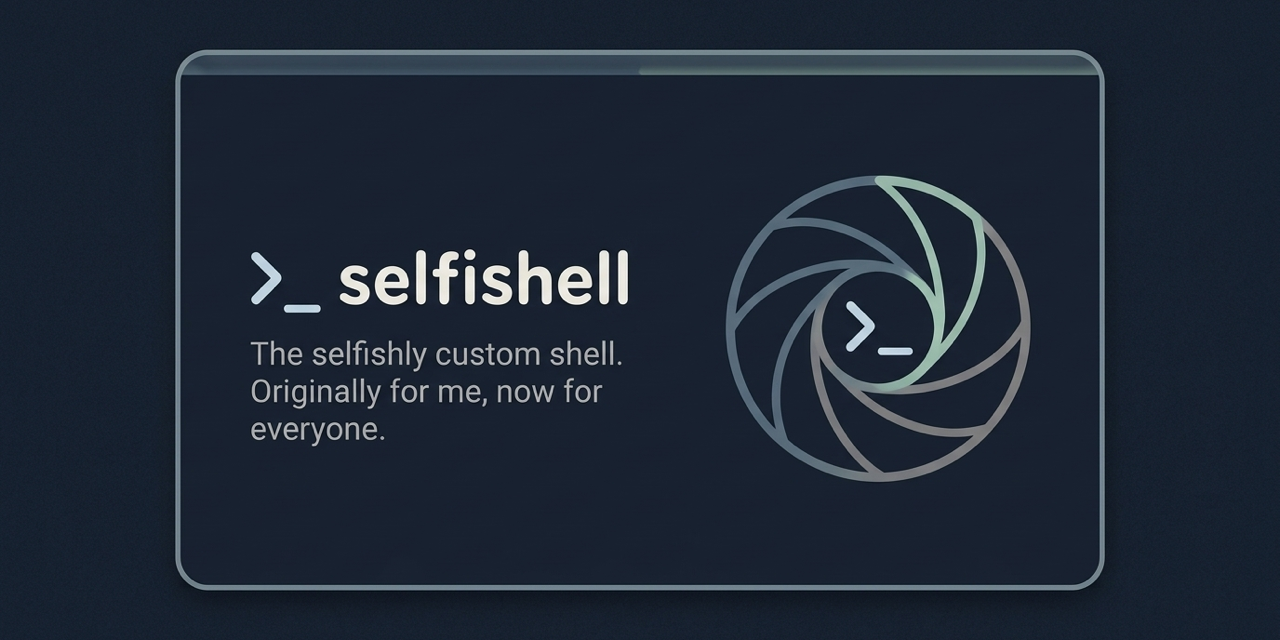
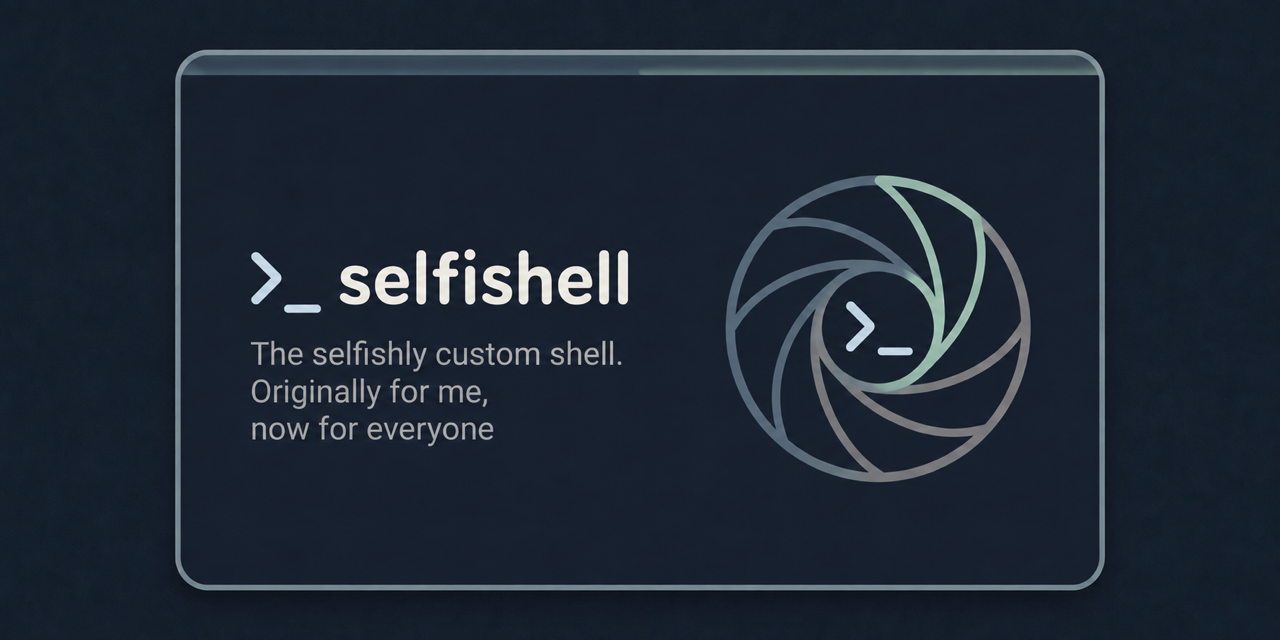
Show updated social preview at the top of README (#210)
* docs: show social preview in README header

* docs: rebalance social preview tagline

diff --git a/README.md b/README.md
@@ -1,9 +1,9 @@
 # Selfishell
 
+![Selfishell terminal-themed banner](img/social-preview.png)
+
 Selfishell is a managed Zsh development environment for macOS, Ubuntu, and
 Ubuntu on WSL.
-
-![Selfishell shell prompt showing the current directory, Git branch, and command output](img/selfishell.png)
 
 ## Quick Start
 
@@ -29,6 +29,8 @@ non-interactive installation, configuration-only setup, uninstallation,
 Ghostty, and platform notes.
 
 ## What You Get
+
+![Selfishell shell prompt showing the current directory, Git branch, and command output](img/selfishell.png)
 
 - A consistent Zsh environment across supported macOS and Ubuntu systems.
 - A Starship prompt, useful aliases, completions, and managed shell defaults.
